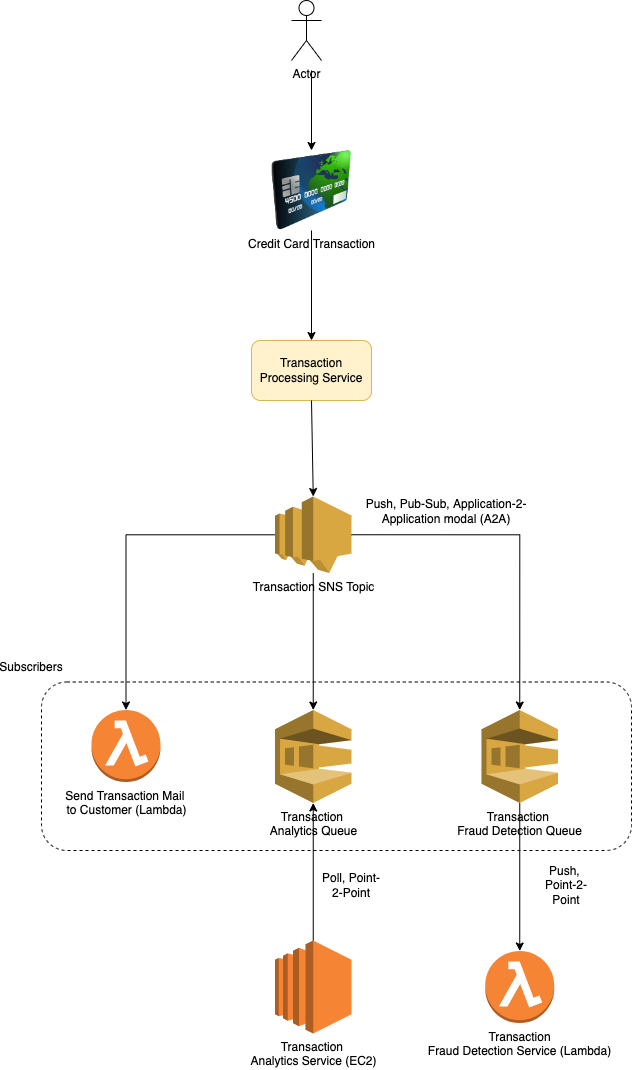
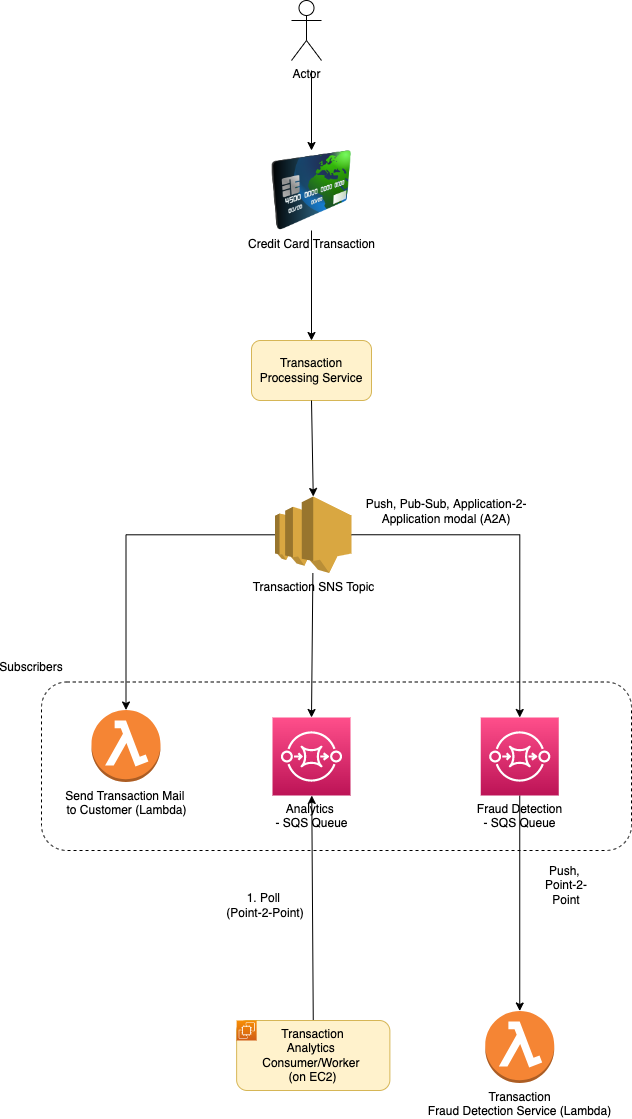
Amazon SQS

diff --git a/src/2_AWSComponents/5_MessageBrokerServices/AmazonSQS.md b/src/2_AWSComponents/5_MessageBrokerServices/AmazonSQS.md
@@ -1,35 +1,57 @@
-# :star: Amazon SQS (Simple Queue Service)
+# Amazon SQS (Simple Queue Service)
 - [Amazon SQS (Simple Queue Service)](https://aws.amazon.com/sqs/) is a fully managed message queuing service that enables you to [decouple and scale microservices](../../1_HLDDesignComponents/1_MicroServicesSOA/README.md), [distributed systems](../../1_HLDDesignComponents/0_SystemGlossaries/README.md), and serverless applications.
-- Amazon SQS supports [dead-letter queues (DLQ)](https://docs.aws.amazon.com/AWSSimpleQueueService/latest/SQSDeveloperGuide/sqs-dead-letter-queues.html), which other queues (source queues) can target for messages that can't be processed (consumed) successfully.
-
-Amazon SQS offers two types of message queues.
-- [Recommended - Standard queues (better throughput than FIFO)](https://docs.aws.amazon.com/AWSSimpleQueueService/latest/SQSDeveloperGuide/standard-queues.html) offer maximum throughput, best-effort ordering, and at-least-once delivery.
-- [SQS FIFO queues](https://docs.aws.amazon.com/AWSSimpleQueueService/latest/SQSDeveloperGuide/FIFO-queues.html) are designed to guarantee that messages are processed exactly once, in the exact order that they are sent.
 
 ![img.png](assests/sns/FanOutPatternSQSSNS.png)
 
-# How SQS works? How it implements At-least-Once delivery?
-- `Amazon SQS is a message queueing service, meaning that it exposes an API to publish and consume messages`. 
-- Unlike a [publish-subscribe system](../../1_HLDDesignComponents/4_MessageBrokers/ReadMe.md), a single message should be delivered to a single consumer, even when there are a lot of consumers running concurrently (also known as the `competing consumers pattern`).
-- When a message is being received from the system, it is blocked from being visible to other consumers for a given period of time. 
-- If the message isn't deleted before this timeout elapses, it will be re-delivered. That way, `SQS implements at-least-once delivery`.
+# Key Features
 
-# Queue types
+![img.png](assests/sqs/SQS-DLD-More-Info.png)
 
-## Standard Queues (Out-Of-Order)
+## At-least-Once delivery ( using Visibility Timeout)
+- Unlike a [publish-subscribe system](../../1_HLDDesignComponents/4_MessageBrokers/ReadMe.md), a single message should be delivered to a single consumer, even when there are a lot of consumers running concurrently (also known as the [competing consumers pattern](https://www.conceptdraw.com/examples/message-queue)).
+- When a message is being received by a consumer/worker, it is blocked from being visible to other consumers for a given period of time (known as [Visibility Timeout](https://docs.aws.amazon.com/AWSSimpleQueueService/latest/SQSDeveloperGuide/sqs-visibility-timeout.html)). 
+- If the message isn't deleted before this timeout elapses, it will be visible again to all consumers. 
 
-### Unlimited Throughput
-- Standard queues support a nearly `unlimited number of transactions per second (TPS)` per API action.
+## Dead-Letter Queue
+- [Amazon SQS]() supports [dead-letter queues (DLQ)](https://docs.aws.amazon.com/AWSSimpleQueueService/latest/SQSDeveloperGuide/sqs-dead-letter-queues.html), which other queues (source queues) can target for messages that can't be processed (consumed) successfully.
+- After [maxReceiveCount](https://docs.aws.amazon.com/AWSSimpleQueueService/latest/SQSDeveloperGuide/sqs-dead-letter-queues.html), message would be pushed in the configured dead letter queue.
 
-### At-Least-Once Delivery
+## APIs Supported
+- [Amazon SQS]() is a message queueing service, meaning that [it exposes an API to publish and consume messages](https://docs.aws.amazon.com/AWSSimpleQueueService/latest/SQSDeveloperGuide/sqs-working-with-apis.html).
+
+## Highly Available
+- [Amazon SQS]() is [highly available](../../1_HLDDesignComponents/0_SystemGlossaries/HighAvailability.md), by default.
+
+# Inflight Messages Limit
+
+A single Amazon SQS message queue can contain an unlimited number of messages.
+
+However, there is a quota of inflight messages
+- 120,000 for a standard queue
+- 20,000 for a FIFO queue
+ 
+* [Messages are inflight](https://aws.amazon.com/premiumsupport/knowledge-center/sqs-message-backlog/) after they have been received from the queue by a consuming component, but have not yet been deleted from the queue.
+
+## Queue types
+
+Amazon SQS offers two types of message queues.
+- [Recommended - Standard queues (better throughput than FIFO)](https://docs.aws.amazon.com/AWSSimpleQueueService/latest/SQSDeveloperGuide/standard-queues.html) offer [maximum throughput](../../1_HLDDesignComponents/0_SystemGlossaries/LatencyThroughput.md), best-effort ordering, and at-least-once delivery.
+- [SQS FIFO queues](https://docs.aws.amazon.com/AWSSimpleQueueService/latest/SQSDeveloperGuide/FIFO-queues.html) are designed to guarantee that messages are processed exactly once, in the exact order that they are sent.
+
+### Standard Queues (Out-Of-Order)
+
+#### Unlimited Throughput
+- Standard queues support a nearly [unlimited number of transactions per second (TPS)](../../1_HLDDesignComponents/0_SystemGlossaries/LatencyThroughput.md) per API action.
+
+#### At-Least-Once Delivery
 - A message is delivered at least once, but occasionally more than one copy of a message is delivered.
 
-### Best-Effort Ordering
-- Occasionally, `messages might be delivered in an order different from which they were sent`.
+#### Best-Effort Ordering
+- Occasionally, messages might be delivered in an order different from which they were sent.
 
 ![img.png](assests/sqs/standard_queues_sqs_img.png)
 
-### Use Cases
+#### Use Cases
 
 You can use standard message queues in many scenarios, as long as `your application can process messages that arrive more than once and out of order`.
 
@@ -38,24 +60,24 @@ For example:
 - Allocate tasks to multiple worker nodes: Process a high number of credit card validation requests. 
 - Batch messages for future processing: Schedule multiple entries to be added to a database.
 
-## FIFO Queues (FIFO-Order)
+### FIFO Queues (FIFO-Order)
 
-### High Throughput
-- By default, FIFO queues support up to `300 messages per second` (300 send, receive, or delete operations per second). 
+#### High Throughput
+- By default, FIFO queues support up to [300 messages per second](../../1_HLDDesignComponents/0_SystemGlossaries/LatencyThroughput.md) (300 send, receive, or delete operations per second). 
 - When you batch 10 messages per operation (maximum), FIFO queues can support up to 3,000 messages per second. 
 - If you require higher throughput, you can enable high throughput mode for FIFO on the Amazon SQS console.
 - This will support up to `30,000 messages per second` with batching, or up to `3,000 messages per second without batching`.
 
-### Exactly-Once Processing
-- `A message is delivered once and remains available until a consumer processes and deletes it`. 
+#### Exactly-Once Processing
+- A message is delivered once and remains available until a consumer processes and deletes it. 
 - Duplicates aren't introduced into the queue.
 
-### First-In-First-Out Delivery
+#### First-In-First-Out Delivery
 - The order in which messages are sent and received is strictly preserved (i.e. `First-In-First-Out`).
 
 ![img.png](assests/sqs/sqs_fifo_queues.png)
 
-### Use Cases
+#### Use Cases
 
 FIFO queues are designed to enhance messaging between applications `when the order of operations and events is critical`, or where duplicates can't be tolerated. 
 
@@ -64,21 +86,8 @@ For example:
 - Display the correct product price by sending price modifications in the right order.
 - Prevent a student from enrolling in a course before registering for an account.
 
-# :star: Amazon SQS vs others
-- [Read here](../../1_HLDDesignComponents/4_MessageBrokers/KafkaVsRabbitMQVsSQSVsSNS.md)
-
-# Performance-Latency
-
-![img.png](assests/sqs_threads_img.png)
-
-# High availability in SQS
-
-![img.png](assests/sqs_ha_img.png)
-
-# How large can Amazon SQS message queues be?
-- A single Amazon SQS message queue can contain an unlimited number of messages. 
-- However, there is a quota of 120,000 for the number of inflight messages for a standard queue and 20,000 for a FIFO queue. 
-- Messages are inflight after they have been received from the queue by a consuming component, but have not yet been deleted from the queue.
+# Other Links 
+- :star: [Amazon SQS vs others](../../1_HLDDesignComponents/4_MessageBrokers/KafkaVsRabbitMQVsSQSVsSNS.md)
 
 # References
 - [Amazon's SQS performance and latency](https://softwaremill.com/amazon-sqs-performance-latency/)

diff --git a/src/2_AWSComponents/README.md b/src/2_AWSComponents/README.md
@@ -277,6 +277,12 @@
 
 [Read more](4_ComputeServices/AmazonECS/README.md)
 
+# Amazon SQS - Queue, Consumers etc.
+
+![img.png](5_MessageBrokerServices/assests/sqs/SQS-DLD-More-Info.png)
+
+[Read more](5_MessageBrokerServices/AmazonSQS.md)
+
 # Amazon EventBridge - Targets, Rules etc.
 
 ![img.png](5_MessageBrokerServices/assests/eventbridge/EventBridge.png)
@@ -294,8 +300,6 @@
 ![img.png](0_AWSDesigns/DesignUploadImageAWSLambdaS3/assets/UploadImage-Lambda.drawio.png)
 
 [Read more](0_AWSDesigns/DesignUploadImageAWSLambdaS3/README.md)
-
-
 
 # Auto-Scaling - How it works?
 
